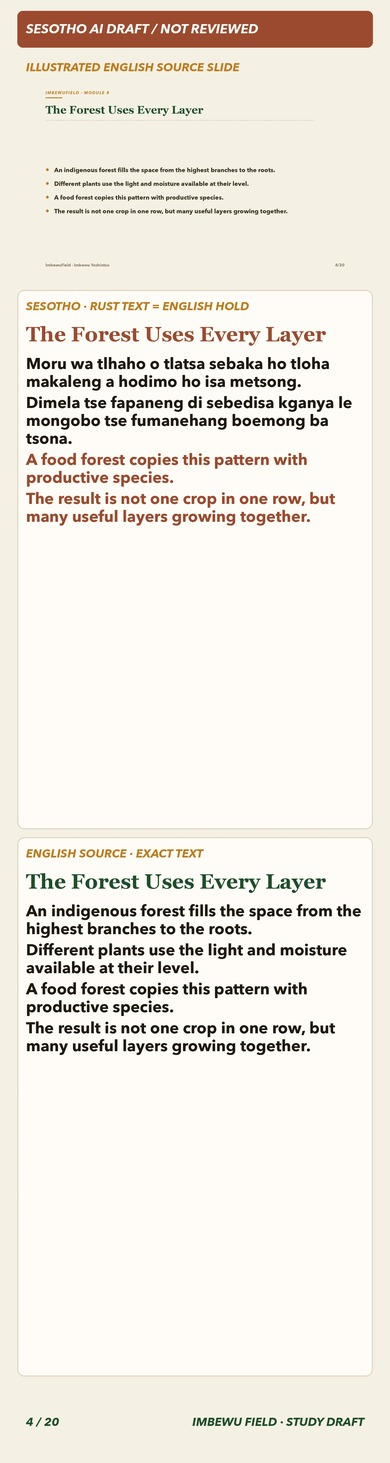
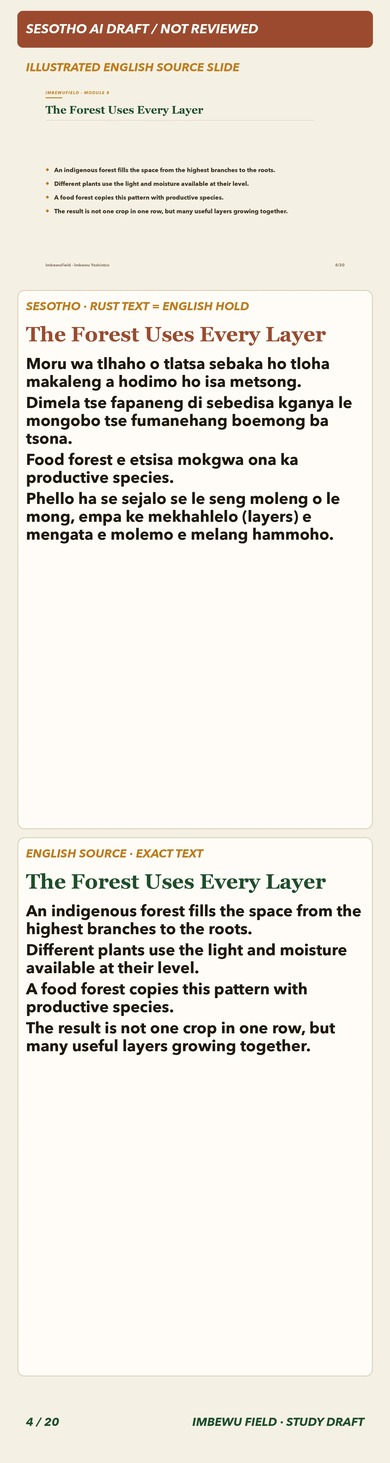
Pair Sesotho Food Forest pattern text across lesson and slide

Changed region(s): [[0.0615, 0.3076, 0.8615, 0.3691]]

diff --git a/lib/course-translation-drafts-st-food-forest.ts b/lib/course-translation-drafts-st-food-forest.ts
@@ -34,7 +34,7 @@ export const SESOTHO_FOOD_FOREST_DRAFT: SesothoCourseModuleDraft = {
       },
       "body": {
         "sourceEnglish": "An indigenous forest fills the space from the highest branches to the roots.\n\nDifferent plants use the light and moisture available at their level.\n\nA food forest copies this pattern with productive species.\n\nThe result is not one crop in one row, but many useful layers growing together.\n\nThink of tall canopy, smaller trees, shrubs and herbaceous plants.\n\nGround cover protects the surface, root crops grow below it, and climbers use suitable supports.\n\nThe heights and spacing depend on the plants and site. These are planning layers, not fixed height bands.\n\nThe original Highveld example includes Wild Fig or pecan above lemon, naartjie and black mulberry.\n\nIt places Cape gooseberry and Wild Medlar with vegetables, wild garlic, sweet potato and granadilla.\n\nTreat this as a layout example, not permission to plant every species. Check identity, frost tolerance, mature size and local restrictions first.\n\nYoung plants need establishment care: moisture checks, weed control and protection from damage.\n\nAs plants grow, shade and leaf litter change conditions below them.\n\nCheck competition and access. Prune, thin or adjust lower planting when observations call for it; the system does not become care-free on a fixed birthday.",
-        "sesothoDraft": "Moru wa tlhaho o tlatsa sebaka ho tloha makaleng a hodimo ho isa metsong.\n\nDimela tse fapaneng di sebedisa kganya le mongobo tse fumanehang boemong ba tsona.\n\nA food forest copies this pattern with productive species.\n\nThe result is not one crop in one row, but many useful layers growing together.\n\nThink of tall canopy, smaller trees, shrubs and herbaceous plants.\n\nGround cover protects the surface, root crops grow below it, and climbers use suitable supports.\n\nThe heights and spacing depend on the plants and site. These are planning layers, not fixed height bands.\n\nMohlala wa pele wa Highveld o kenyelletsa Wild Fig kapa pecan tse hodimo ho lemon, naartjie le black mulberry.\n\nMohlala oo o beha Cape gooseberry le Wild Medlar mmoho le vegetables, wild garlic, sweet potato le granadilla.\n\nTreat this as a layout example, not permission to plant every species. Check identity, frost tolerance, mature size and local restrictions first.\n\nYoung plants need establishment care: moisture checks, weed control and protection from damage.\n\nHa dimela di ntse di hola, moriti le masalla a makgasi di fetola maemo a ka tlase ho tsona.\n\nCheck competition and access. Prune, thin or adjust lower planting when observations call for it; the system does not become care-free on a fixed birthday.",
+        "sesothoDraft": "Moru wa tlhaho o tlatsa sebaka ho tloha makaleng a hodimo ho isa metsong.\n\nDimela tse fapaneng di sebedisa kganya le mongobo tse fumanehang boemong ba tsona.\n\nFood forest e etsisa mokgwa ona ka productive species.\n\nPhello ha se sejalo se le seng moleng o le mong, empa ke mekhahlelo (layers) e mengata e molemo e melang hammoho.\n\nThink of tall canopy, smaller trees, shrubs and herbaceous plants.\n\nGround cover protects the surface, root crops grow below it, and climbers use suitable supports.\n\nThe heights and spacing depend on the plants and site. These are planning layers, not fixed height bands.\n\nMohlala wa pele wa Highveld o kenyelletsa Wild Fig kapa pecan tse hodimo ho lemon, naartjie le black mulberry.\n\nMohlala oo o beha Cape gooseberry le Wild Medlar mmoho le vegetables, wild garlic, sweet potato le granadilla.\n\nTreat this as a layout example, not permission to plant every species. Check identity, frost tolerance, mature size and local restrictions first.\n\nYoung plants need establishment care: moisture checks, weed control and protection from damage.\n\nHa dimela di ntse di hola, moriti le masalla a makgasi di fetola maemo a ka tlase ho tsona.\n\nCheck competition and access. Prune, thin or adjust lower planting when observations call for it; the system does not become care-free on a fixed birthday.",
         "reviewStatus": "machine-draft"
       },
       "keyPoints": [

diff --git a/tests/paired-draft-slides.test.ts b/tests/paired-draft-slides.test.ts
@@ -276,7 +276,7 @@ test('Food Forest Sesotho slides pair low-risk orientation drafts with exact Eng
   const drafted = slides.flatMap((slide: any) => slide.target.body
     .map((paragraph: any, index: number) => paragraph.status === 'draft' ? `${slide.n}:${index + 1}` : null)
     .filter(Boolean));
-  for (const field of ['1:1', '1:4', '2:1', '4:1', '4:2', '8:2', '13:1']) {
+  for (const field of ['1:1', '1:4', '2:1', '4:1', '4:2', '4:3', '4:4', '8:2', '13:1']) {
     assert.ok(drafted.includes(field), `the source-paired draft at ${field} should remain available`);
   }
   assert.equal(slides[1].target.heading.status, 'draft');
@@ -316,7 +316,8 @@ test('Food Forest Sesotho slides pair low-risk orientation drafts with exact Eng
   const lessonBody = SESOTHO_FOOD_FOREST_DRAFT.lessons[0].body;
   const lessonEnglish = lessonBody.sourceEnglish.split('\n\n');
   const lessonSesotho = lessonBody.sesothoDraft.split('\n\n');
-  for (const [slideIndex, slideParagraph, lessonParagraph] of [[3, 0, 0], [3, 1, 1], [7, 1, 11]]) {
+  // These two forest-pattern sentences now appear in both the learner text and silent slide.
+  for (const [slideIndex, slideParagraph, lessonParagraph] of [[3, 0, 0], [3, 1, 1], [3, 2, 2], [3, 3, 3], [7, 1, 11]]) {
     assert.equal(slides[slideIndex].english.body[slideParagraph], lessonEnglish[lessonParagraph],
       `slide ${slideIndex + 1} must use the exact lesson source sentence`);
     assert.equal(slides[slideIndex].target.body[slideParagraph].text, lessonSesotho[lessonParagraph],

diff --git a/tests/course-translation-drafts-st-food-forest.test.ts b/tests/course-translation-drafts-st-food-forest.test.ts
@@ -58,6 +58,9 @@ test('Food Forest Sesotho draft preserves every source, plant safeguard and quiz
       const translatedParagraphs = new Map([
         [0, 'Moru wa tlhaho o tlatsa sebaka ho tloha makaleng a hodimo ho isa metsong.'],
         [1, 'Dimela tse fapaneng di sebedisa kganya le mongobo tse fumanehang boemong ba tsona.'],
+        // The two descriptive forest-pattern lines now accompany the silent slide; planting advice stays held.
+        [2, 'Food forest e etsisa mokgwa ona ka productive species.'],
+        [3, 'Phello ha se sejalo se le seng moleng o le mong, empa ke mekhahlelo (layers) e mengata e molemo e melang hammoho.'],
         [7, 'Mohlala wa pele wa Highveld o kenyelletsa Wild Fig kapa pecan tse hodimo ho lemon, naartjie le black mulberry.'],
         [8, 'Mohlala oo o beha Cape gooseberry le Wild Medlar mmoho le vegetables, wild garlic, sweet potato le granadilla.'],
         [11, 'Ha dimela di ntse di hola, moriti le masalla a makgasi di fetola maemo a ka tlase ho tsona.'],

diff --git a/lib/course-asset-sizes.ts b/lib/course-asset-sizes.ts
@@ -633,7 +633,7 @@ export const COURSE_ASSET_SIZES: Readonly<Record<string, number>> = Object.freez
   '/course-decks/food-forest/st/slide-01.webp': 333580,
   '/course-decks/food-forest/st/slide-02.webp': 220196,
   '/course-decks/food-forest/st/slide-03.webp': 226742,
-  '/course-decks/food-forest/st/slide-04.webp': 254304,
+  '/course-decks/food-forest/st/slide-04.webp': 253488,
   '/course-decks/food-forest/st/slide-05.webp': 406198,
   '/course-decks/food-forest/st/slide-06.webp': 343362,
   '/course-decks/food-forest/st/slide-07.webp': 298174,

diff --git a/docs/narration-reviews/food-forest-st-paired-slides-2026-09-28.md b/docs/narration-reviews/food-forest-st-paired-slides-2026-09-28.md
@@ -4,6 +4,8 @@ All twenty Study slides now have a silent Sesotho review frame. This is an unrev
 
 The frames reuse the existing English slide illustrations and the current paired source in `docs/narration/food-forest.st.paired-draft.json`. In addition to the original three draft paragraphs on slides 4 and 8, the 29 September batch adds orientation drafts to slide 1 paragraphs 1 and 4, slide 2 heading and paragraph 1, and slide 3 heading. A later 29 September batch adds slide 8 and 13 headings and slide 13's first habitat paragraph as unreviewed drafts. Every remaining held field displays exact English. The renderer validates every English heading and paragraph against `docs/narration/food-forest.en.md`; it does not edit or paraphrase the paired packet.
 
+On 30 September, slide 4 paragraphs 3–4 and the matching Sesotho learner lesson gained two descriptive machine drafts about the forest pattern and layers. `food forest`, `productive species` and `layers` remain visible English technical terms; the full exact English sentences remain paired. The wording needs first-language Sesotho and local practitioner review before it is treated as approved. Species selection, planting instructions and ongoing care still remain exact-English holds.
+
 The top panel shows the complete English source slide. The middle panel marks the Sesotho draft or English hold; the bottom panel repeats the exact English text. Every frame says **SESOTHO AI DRAFT / NOT REVIEWED**. The learner starts silent. Existing English source narration remains a separate choice. The existing English sheet-mulching Flow poster is suppressed for Sesotho because it would cover the paired source and draft text on slide 16; no Flow asset or narration was added.
 
 Review needed: a first-language Sesotho speaker should check all drafts for grammar, register and meaning, especially `layers`, `food forest`, `qala` (starting versus establishing), `moru wa tlhaho`, `boemo ba tsona`, `masalla a makgasi`, and the mixed `indigenous plants` and `habitat` terms. A local food-forest practitioner should separately confirm the conceptual wording. Species, legal claims, climate/site selection, water, planting, establishment care, pruning and field actions remain English holds.
